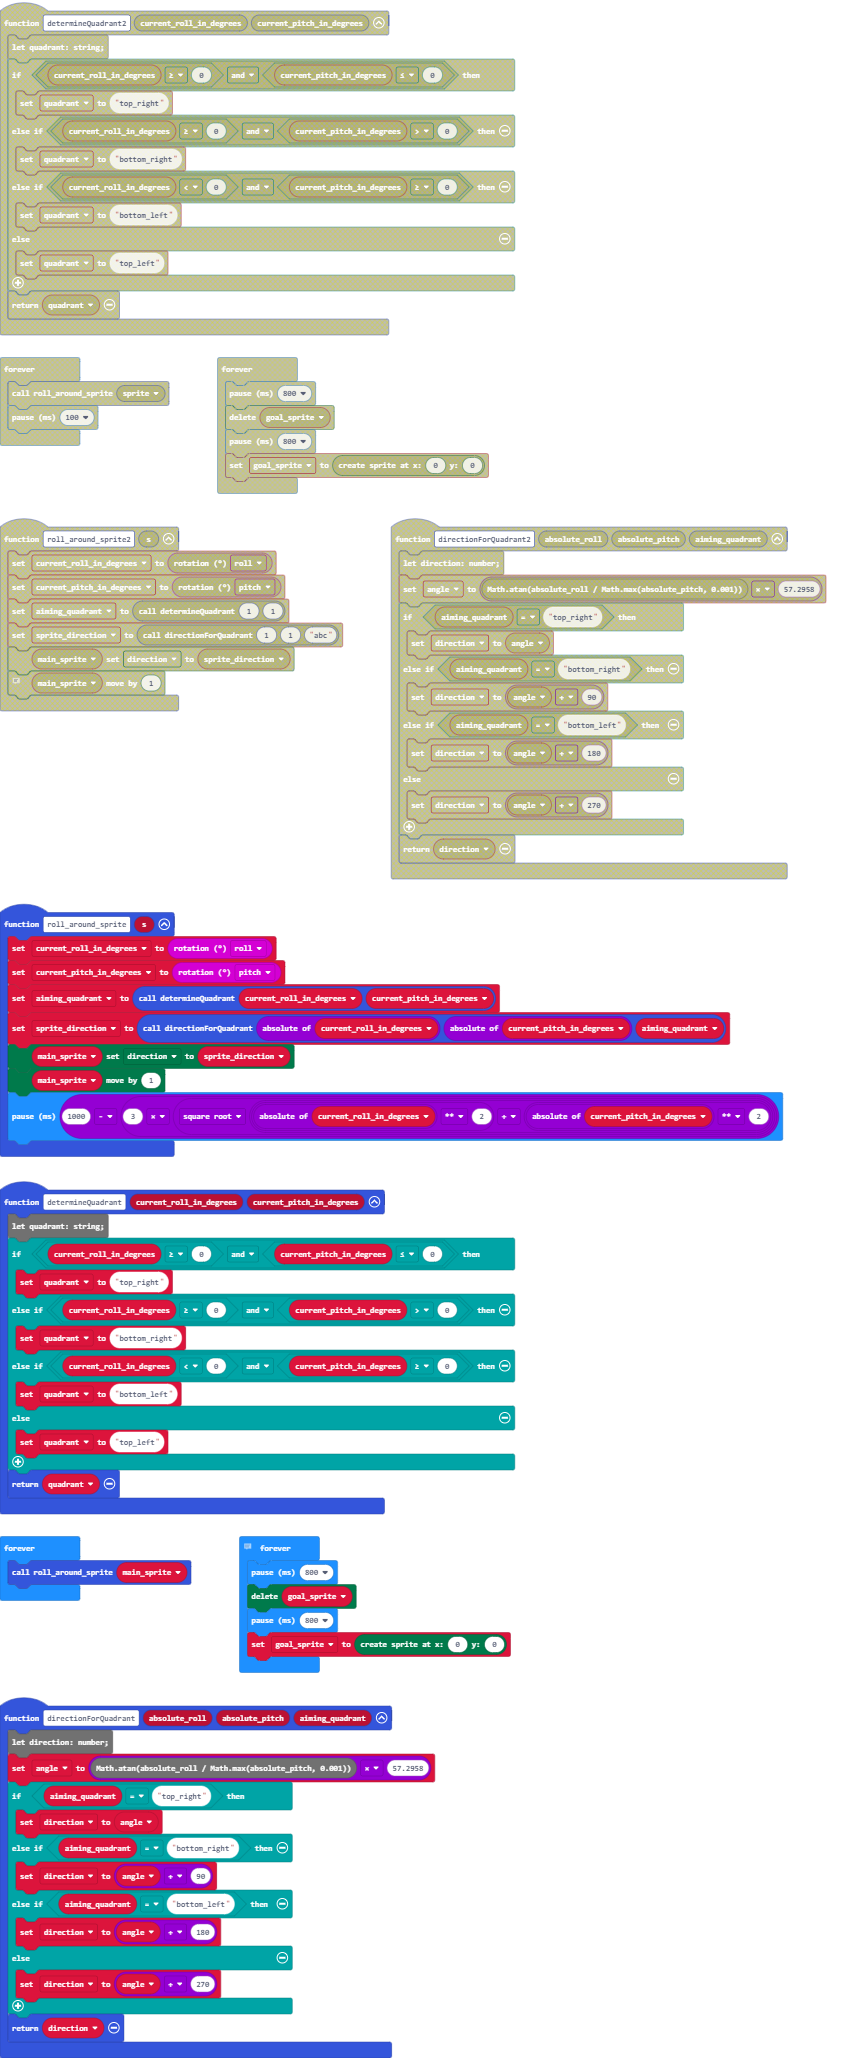
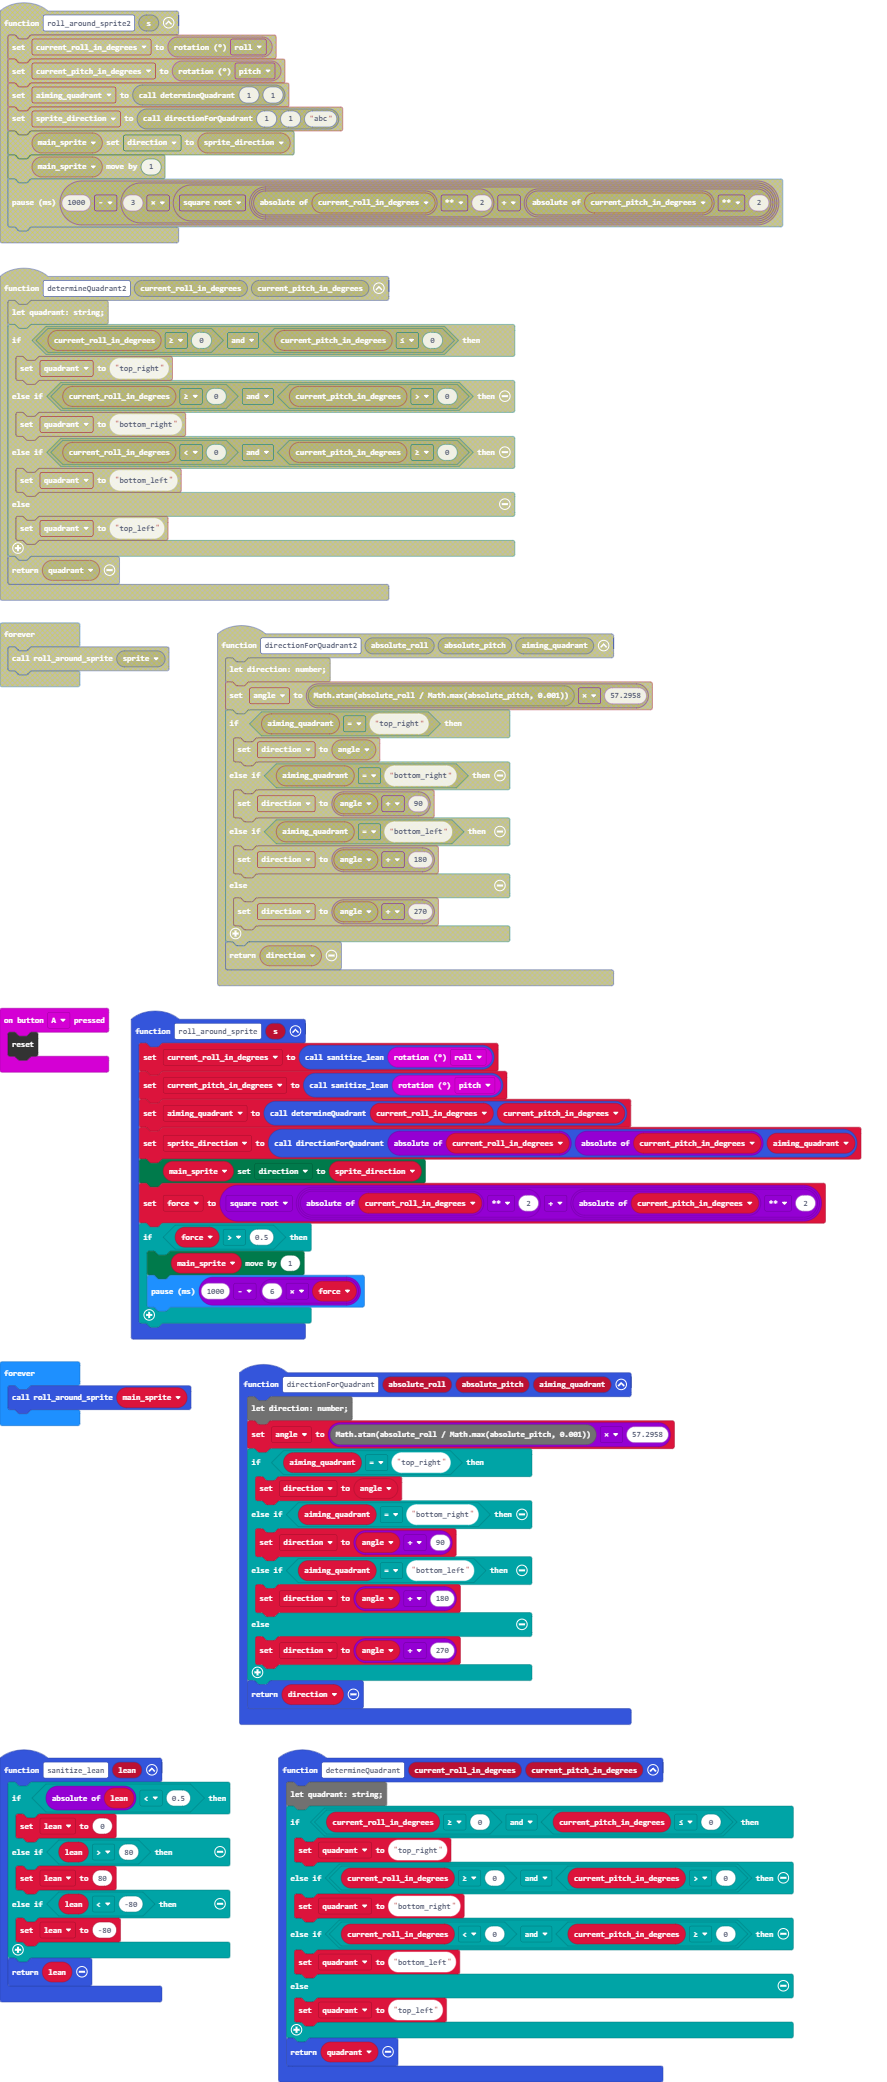
Control enhancements

diff --git a/main.ts b/main.ts
@@ -1,3 +1,16 @@
+input.onButtonPressed(Button.A, function () {
+    control.reset()
+})
+function sanitize_lean (lean: number) {
+    if (Math.abs(lean) < 0.5) {
+        lean = 0
+    } else if (lean > 80) {
+        lean = 80
+    } else if (lean < -80) {
+        lean = -80
+    }
+    return lean
+}
 function determineQuadrant (current_roll_in_degrees: number, current_pitch_in_degrees: number) {
     let quadrant: string;
 if (current_roll_in_degrees >= 0 && current_pitch_in_degrees <= 0) {
@@ -12,13 +25,16 @@ if (current_roll_in_degrees >= 0 && current_pitch_in_degrees <= 0) {
     return quadrant
 }
 function roll_around_sprite (s: game.LedSprite) {
-    current_roll_in_degrees = input.rotation(Rotation.Roll)
-    current_pitch_in_degrees = input.rotation(Rotation.Pitch)
+    current_roll_in_degrees = sanitize_lean(input.rotation(Rotation.Roll))
+    current_pitch_in_degrees = sanitize_lean(input.rotation(Rotation.Pitch))
     aiming_quadrant = determineQuadrant(current_roll_in_degrees, current_pitch_in_degrees)
     sprite_direction = directionForQuadrant(Math.abs(current_roll_in_degrees), Math.abs(current_pitch_in_degrees), aiming_quadrant)
     main_sprite.set(LedSpriteProperty.Direction, sprite_direction)
-    main_sprite.move(1)
-    basic.pause(1000 - 3 * Math.sqrt(Math.abs(current_roll_in_degrees) ** 2 + Math.abs(current_pitch_in_degrees) ** 2))
+    force = Math.sqrt(Math.abs(current_roll_in_degrees) ** 2 + Math.abs(current_pitch_in_degrees) ** 2)
+    if (force > 0.5) {
+        main_sprite.move(1)
+        basic.pause(1000 - 6 * force)
+    }
 }
 function directionForQuadrant (absolute_roll: number, absolute_pitch: number, aiming_quadrant: string) {
     let direction: number;
@@ -35,10 +51,12 @@ angle = Math.atan(absolute_roll / Math.max(absolute_pitch, 0.001)) * 57.2958
     return direction
 }
 let angle = 0
+let force = 0
 let sprite_direction = 0
 let aiming_quadrant = ""
 let current_pitch_in_degrees = 0
 let current_roll_in_degrees = 0
+let lean = 0
 let main_sprite: game.LedSprite = null
 main_sprite = game.createSprite(3, 1)
 let goal_sprite = game.createSprite(0, 0)

diff --git a/main.py b/main.py
@@ -1,3 +1,7 @@
+def on_button_pressed_a():
+    control.reset()
+input.on_button_pressed(Button.A, on_button_pressed_a)
+
 def determineQuadrant(current_roll_in_degrees: number, current_pitch_in_degrees: number):
     if current_roll_in_degrees >= 0 and current_pitch_in_degrees <= 0:
         quadrant = "top_right"
@@ -8,17 +12,27 @@ def determineQuadrant(current_roll_in_degrees: number, current_pitch_in_degrees:
     else:
         quadrant = "top_left"
     return quadrant
+def sanitize_lean(lean:number):
+    if abs(lean) < 0.5:
+        lean = 0
+    elif lean > 80:
+        lean = 80
+    elif lean < -80:
+        lean = -80
+    return lean
 def roll_around_sprite(s: game.LedSprite):
-    global current_roll_in_degrees, current_pitch_in_degrees, aiming_quadrant, sprite_direction
-    current_roll_in_degrees = input.rotation(Rotation.ROLL)
-    current_pitch_in_degrees = input.rotation(Rotation.PITCH)
+    global current_roll_in_degrees, current_pitch_in_degrees, aiming_quadrant, sprite_direction, force
+    current_roll_in_degrees = sanitize_lean(input.rotation(Rotation.ROLL))
+    current_pitch_in_degrees = sanitize_lean(input.rotation(Rotation.PITCH))
     aiming_quadrant = determineQuadrant(current_roll_in_degrees, current_pitch_in_degrees)
     sprite_direction = directionForQuadrant(abs(current_roll_in_degrees),
         abs(current_pitch_in_degrees),
         aiming_quadrant)
     main_sprite.set(LedSpriteProperty.DIRECTION, sprite_direction)
-    main_sprite.move(1)
-    basic.pause(1000 - 3 * Math.sqrt(abs(current_roll_in_degrees) ** 2 + abs(current_pitch_in_degrees) ** 2))
+    force = Math.sqrt(abs(current_roll_in_degrees) ** 2 + abs(current_pitch_in_degrees) ** 2)
+    if force > 0.5:
+        main_sprite.move(1)
+        basic.pause(1000 - 6 * force)
 def directionForQuadrant(absolute_roll: number, absolute_pitch: number, aiming_quadrant: str):
     global angle
     angle = Math.atan(absolute_roll / max(absolute_pitch, 0.001)) * 57.2958
@@ -32,6 +46,7 @@ def directionForQuadrant(absolute_roll: number, absolute_pitch: number, aiming_q
         direction = angle + 270
     return direction
 angle = 0
+force = 0
 sprite_direction = 0
 aiming_quadrant = ""
 current_pitch_in_degrees = 0
@@ -39,26 +54,27 @@ current_roll_in_degrees = 0
 main_sprite: game.LedSprite = None
 main_sprite = game.create_sprite(3, 1)
 goal_sprite = game.create_sprite(0, 0)
-# Comment by John's dad:
-#
-# Note that sprites will roll along edges when relative direction exceeds 45 current_pitch_in_degrees in effect simulating some degree of "wall friction". Thus there is no need to program specifically for edge cases. For example, this will not move when direction is set below 45 (but will at anything above that):
-#
-# s = game.create_sprite(1, 0)
-#
-# s.set(LedSpriteProperty.DIRECTION, 45)
-#
-# s.move(4)
-#
-# Note also that the only way to achieve local scope variables using blocks is to have them as python function parameters. Blocks will generate any others as globals
 
 def on_forever():
+    roll_around_sprite(main_sprite)
+basic.forever(on_forever)
+
+# Comment by John's dad:
+# 
+# Note that sprites will roll along edges when relative direction exceeds 45 current_pitch_in_degrees in effect simulating some degree of "wall friction". Thus there is no need to program specifically for edge cases. For example, this will not move when direction is set below 45 (but will at anything above that):
+# 
+# s = game.create_sprite(1, 0)
+# 
+# s.set(LedSpriteProperty.DIRECTION, 45)
+# 
+# s.move(4)
+# 
+# Note also that the only way to achieve local scope variables using blocks is to have them as python function parameters. Blocks will generate any others as globals
+
+def on_forever2():
     global goal_sprite
     basic.pause(800)
     goal_sprite.delete()
     basic.pause(800)
     goal_sprite = game.create_sprite(0, 0)
-basic.forever(on_forever)
-
-def on_forever2():
-    roll_around_sprite(main_sprite)
 basic.forever(on_forever2)
